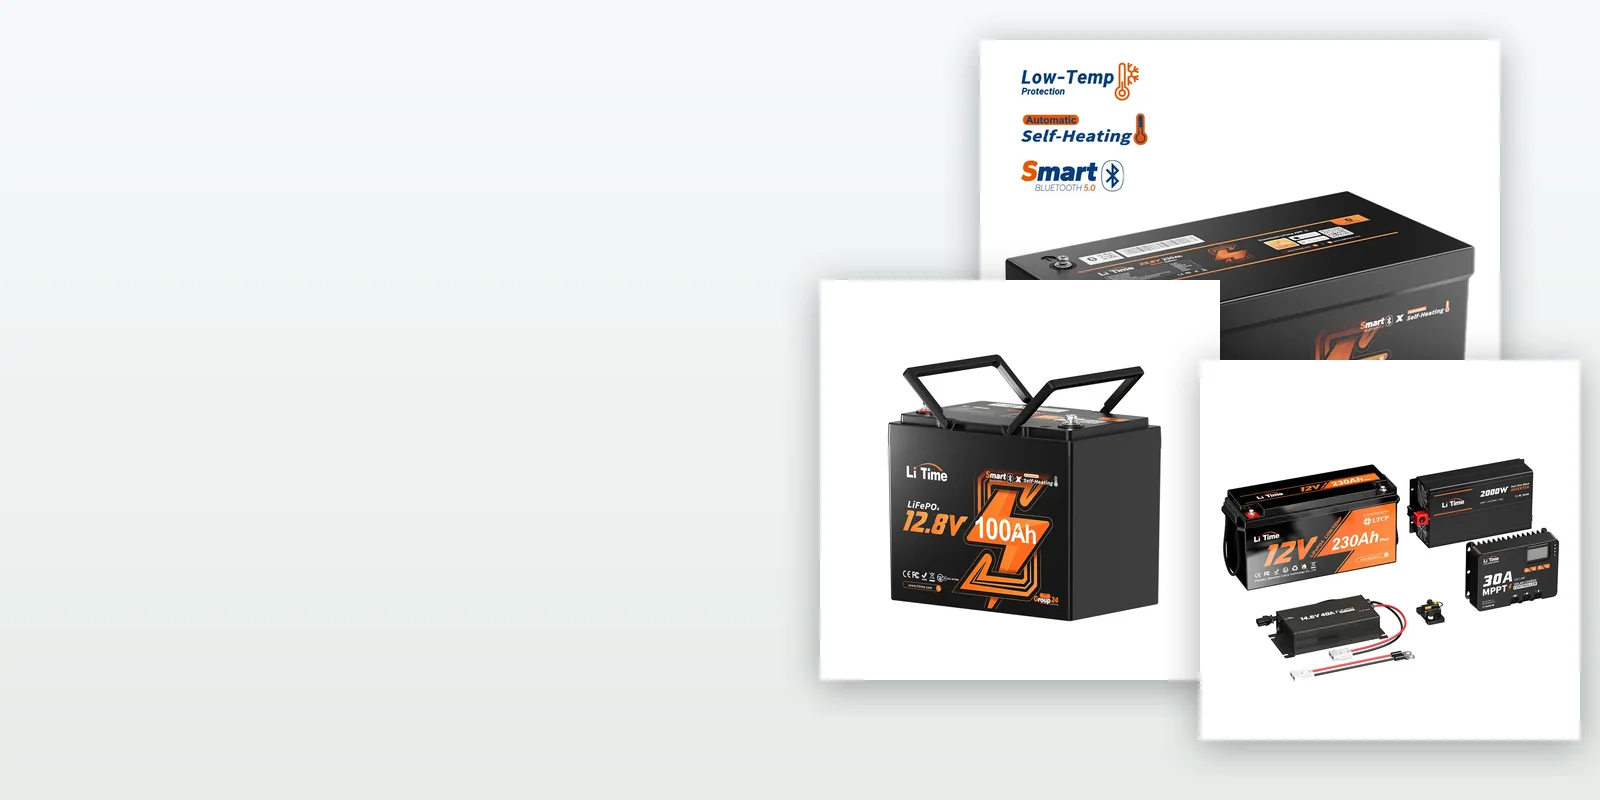
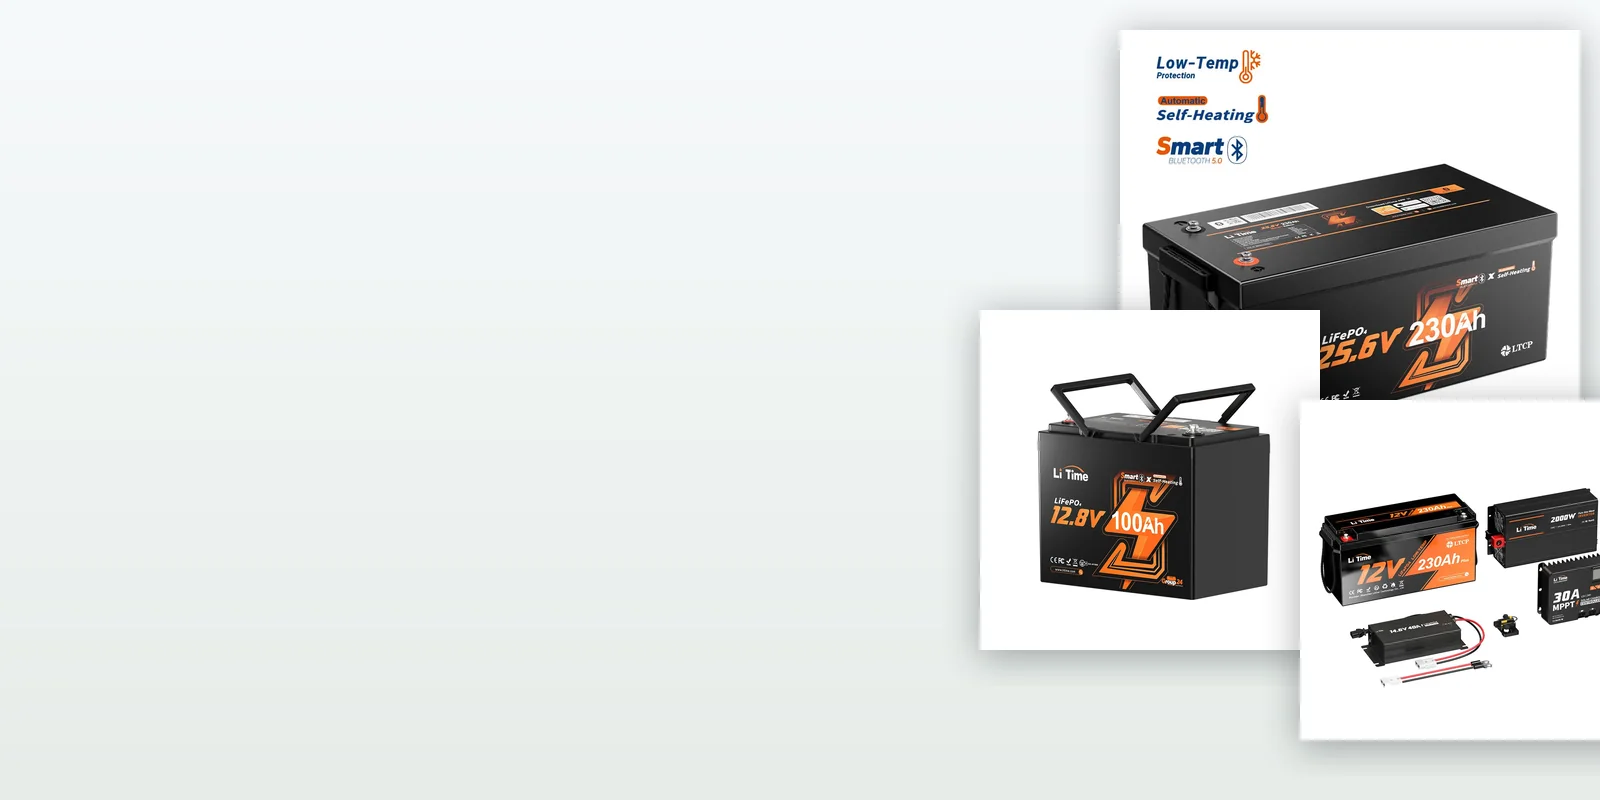
Keep LiTime brand-hero copy clear of the official product photos.

Changed region(s): [[0.5, 0.0312, 1.0, 0.9688]]

diff --git a/src/styles/global.css b/src/styles/global.css
@@ -673,7 +673,7 @@ body:has(.brand-intro) .page-hero.has-photo .page-hero-media::after{background:l
 .brand-hero-media{position:absolute;inset:0;z-index:0}
 .brand-hero-media img{width:100%;height:100%;object-fit:cover;object-position:right center;display:block}
 .brand-hero-inner{position:relative;z-index:1;padding:42px 20px 48px;max-width:760px}
-.brand-hero.has-visual .brand-hero-inner{max-width:36rem}
+.brand-hero.has-visual .brand-hero-inner{max-width:32rem;background:linear-gradient(90deg,rgba(238,243,247,.94) 0%,rgba(238,243,247,.82) 72%,rgba(238,243,247,0) 100%);margin-left:-12px;padding-right:56px;padding-left:12px;box-decoration-break:clone}
 .brand-hero .crumbs a,.brand-hero .crumbs span{color:var(--navy)}
 .brand-hero .crumbs a{text-decoration-color:rgba(15,42,61,.35)}
 .brand-hero .eyebrow{color:#5b7383;letter-spacing:.08em}
